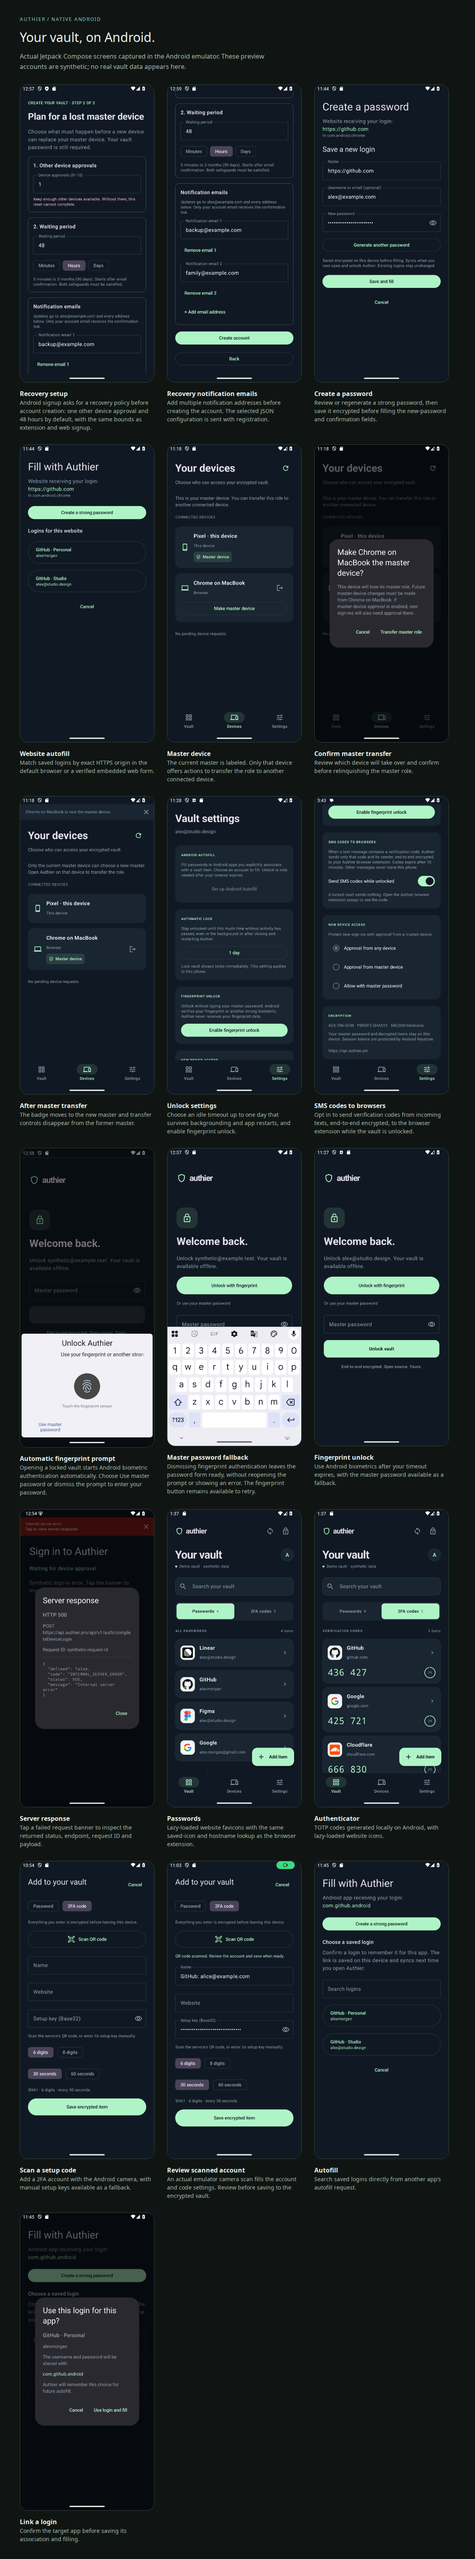
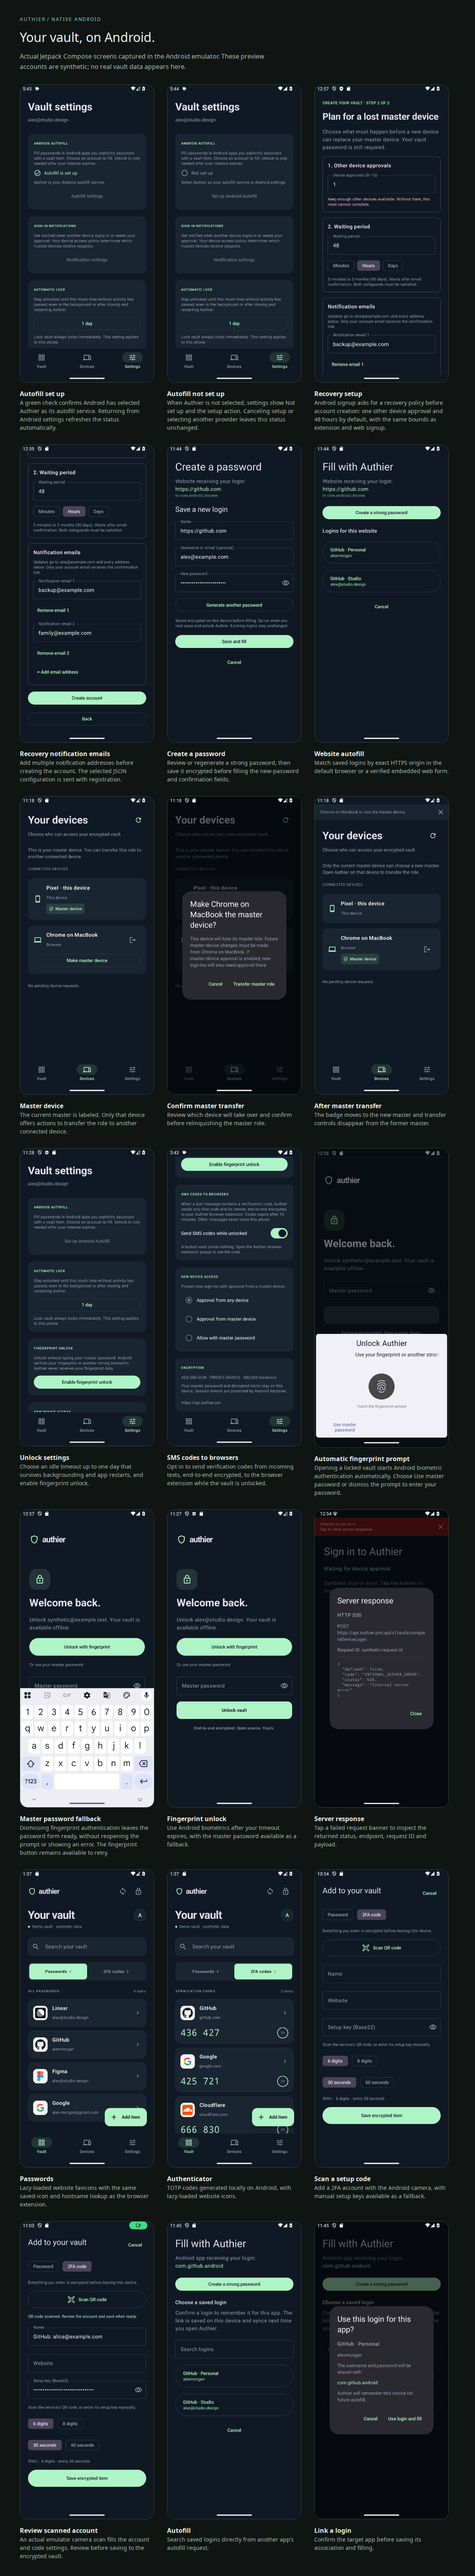
Add Android Autofill settings feature and related tests
- Implement AndroidAutofillSettings composable to manage autofill service setup.
- Create AndroidAutofillSettingsTest to validate provider selection behavior.
- Update AccountScreens to integrate the new autofill settings UI.
- Add screenshots for enabled and disabled autofill settings to documentation.
- Enhance AndroidVaultPreview with autofill settings scenarios.

diff --git a/android-app/app/src/androidTest/java/dev/authier/android/AndroidAutofillSettingsTest.kt b/android-app/app/src/androidTest/java/dev/authier/android/AndroidAutofillSettingsTest.kt
@@ -1,0 +1,66 @@
+package dev.authier.android
+
+import android.Manifest
+import android.content.ComponentName
+import android.provider.Settings
+import android.view.autofill.AutofillManager
+import androidx.activity.ComponentActivity
+import androidx.compose.ui.test.assertIsDisplayed
+import androidx.compose.ui.test.junit4.createAndroidComposeRule
+import androidx.compose.ui.test.onNodeWithText
+import androidx.lifecycle.Lifecycle
+import androidx.test.platform.app.InstrumentationRegistry
+import org.junit.After
+import org.junit.Before
+import org.junit.Rule
+import org.junit.Test
+
+class AndroidAutofillSettingsTest {
+    @get:Rule val compose = createAndroidComposeRule<ComponentActivity>()
+    private val instrumentation = InstrumentationRegistry.getInstrumentation()
+    private val context = instrumentation.targetContext
+    private var originalProvider: String? = null
+
+    @Before fun rememberProvider() {
+        instrumentation.uiAutomation.adoptShellPermissionIdentity(Manifest.permission.WRITE_SECURE_SETTINGS)
+        originalProvider = Settings.Secure.getString(context.contentResolver, "autofill_service")
+        Settings.Secure.putString(context.contentResolver, "autofill_service", null)
+    }
+
+    @After fun restoreProvider() {
+        Settings.Secure.putString(context.contentResolver, "autofill_service", originalProvider)
+        instrumentation.uiAutomation.dropShellPermissionIdentity()
+    }
+
+    private fun returnWithProvider(provider: String?, enabled: Boolean) {
+        compose.activityRule.scenario.moveToState(Lifecycle.State.CREATED)
+        Settings.Secure.putString(context.contentResolver, "autofill_service", provider)
+        compose.waitUntil(5_000) {
+            context.getSystemService(AutofillManager::class.java).hasEnabledAutofillServices() == enabled
+        }
+        compose.activityRule.scenario.moveToState(Lifecycle.State.RESUMED)
+    }
+
+    @Test fun refreshesTheActualProviderOnReturnFromAndroidSettings() {
+        compose.setContent { AuthierTheme { AndroidAutofillSettings() } }
+        compose.onNodeWithText("Not set up").assertIsDisplayed()
+        compose.onNodeWithText("Set up Android Autofill").assertIsDisplayed()
+
+        // Returning without selecting Authier must not claim setup succeeded.
+        returnWithProvider(null, enabled = false)
+        compose.onNodeWithText("Not set up").assertIsDisplayed()
+
+        val authier = ComponentName(context, NativeAutofillService::class.java).flattenToString()
+        returnWithProvider(authier, enabled = true)
+        compose.onNodeWithText("Autofill is set up").assertIsDisplayed()
+        compose.onNodeWithText("Authier is your Android autofill service.").assertIsDisplayed()
+        compose.onNodeWithText("Autofill settings").assertIsDisplayed()
+        compose.onNodeWithText("Set up Android Autofill").assertDoesNotExist()
+
+        // Another provider being enabled is not equivalent to Authier being selected.
+        returnWithProvider("com.google.android.gms/.autofill.service.AutofillService", enabled = false)
+        compose.onNodeWithText("Not set up").assertIsDisplayed()
+        compose.onNodeWithText("Set up Android Autofill").assertIsDisplayed()
+        compose.onNodeWithText("Autofill is set up").assertDoesNotExist()
+    }
+}

diff --git a/android-app/app/src/main/java/dev/authier/android/AndroidAutofillSettings.kt b/android-app/app/src/main/java/dev/authier/android/AndroidAutofillSettings.kt
@@ -1,0 +1,44 @@
+package dev.authier.android
+
+import android.content.Intent
+import android.net.Uri
+import android.provider.Settings
+import android.view.autofill.AutofillManager
+import androidx.compose.foundation.layout.*
+import androidx.compose.material.icons.Icons
+import androidx.compose.material.icons.outlined.CheckCircle
+import androidx.compose.material.icons.outlined.RadioButtonUnchecked
+import androidx.compose.material3.*
+import androidx.compose.runtime.*
+import androidx.compose.ui.Alignment
+import androidx.compose.ui.Modifier
+import androidx.compose.ui.platform.LocalContext
+import androidx.compose.ui.unit.dp
+import androidx.lifecycle.compose.LifecycleResumeEffect
+
+@Composable
+internal fun AndroidAutofillSettings(demo: Boolean = false) {
+    val context = LocalContext.current
+    val manager = remember(context) { context.getSystemService(AutofillManager::class.java) }
+    fun isSetUp() = manager?.hasEnabledAutofillServices() == true
+    var enabled by remember(manager) { mutableStateOf(isSetUp()) }
+    LifecycleResumeEffect(manager) {
+        // Recheck Android's selected provider after setup, cancellation, or switching services.
+        enabled = isSetUp()
+        onPauseOrDispose { }
+    }
+    SettingSection("ANDROID AUTOFILL", "Fill passwords in Android apps you explicitly associate with a vault item. Choose an account to fill. Unlock is only needed after your timeout expires.") {
+        Row(verticalAlignment = Alignment.CenterVertically, horizontalArrangement = Arrangement.spacedBy(10.dp)) {
+            Icon(if (enabled) Icons.Outlined.CheckCircle else Icons.Outlined.RadioButtonUnchecked,
+                contentDescription = null, tint = if (enabled) Mint else Muted, modifier = Modifier.size(22.dp))
+            Text(if (enabled) "Autofill is set up" else "Not set up", color = if (enabled) Mint else Muted,
+                style = MaterialTheme.typography.bodyMedium)
+        }
+        Text(if (enabled) "Authier is your Android autofill service." else "Select Authier as your autofill service in Android settings.",
+            color = Muted, style = MaterialTheme.typography.bodySmall)
+        OutlinedButton({ context.startActivity(Intent(Settings.ACTION_REQUEST_SET_AUTOFILL_SERVICE, Uri.parse("package:${context.packageName}"))) },
+            enabled = !demo, modifier = Modifier.fillMaxWidth()) {
+            Text(if (enabled) "Autofill settings" else "Set up Android Autofill")
+        }
+    }
+}

diff --git a/android-app/app/src/main/java/dev/authier/android/AccountScreens.kt b/android-app/app/src/main/java/dev/authier/android/AccountScreens.kt
@@ -1,7 +1,6 @@
 package dev.authier.android
 
 import android.content.Intent
-import android.net.Uri
 import android.provider.Settings
 import androidx.compose.foundation.layout.*
 import androidx.compose.foundation.lazy.LazyColumn
@@ -24,11 +23,7 @@ fun SettingsScreen(state: VaultUiState, model: VaultViewModel) {
     var discard by remember { mutableStateOf<PendingWrite?>(null) }
     LazyColumn(Modifier.fillMaxSize(), contentPadding = PaddingValues(24.dp), verticalArrangement = Arrangement.spacedBy(20.dp)) {
         item { ScreenHeading("Vault settings", state.email) }
-        item {
-            SettingSection("ANDROID AUTOFILL", "Fill passwords in Android apps you explicitly associate with a vault item. Choose an account to fill. Unlock is only needed after your timeout expires.") {
-                OutlinedButton({ context.startActivity(Intent(Settings.ACTION_REQUEST_SET_AUTOFILL_SERVICE, Uri.parse("package:${context.packageName}"))) }, enabled = !state.demo, modifier = Modifier.fillMaxWidth()) { Text("Set up Android Autofill") }
-            }
-        }
+        item { AndroidAutofillSettings(demo = state.demo) }
         item {
             SettingSection("SIGN-IN NOTIFICATIONS", "Get notified when another device signs in or needs your approval. Your device access policy determines which trusted devices receive requests.") {
                 OutlinedButton({ context.startActivity(Intent(Settings.ACTION_APP_NOTIFICATION_SETTINGS).putExtra(Settings.EXTRA_APP_PACKAGE, context.packageName)) }, enabled = !state.demo, modifier = Modifier.fillMaxWidth()) { Text("Notification settings") }

diff --git a/web-extension/ui-preview/scenarios/AndroidVaultPreview.tsx b/web-extension/ui-preview/scenarios/AndroidVaultPreview.tsx
@@ -17,10 +17,24 @@ import associationScreenshot from '../../../docs/screenshots/android-autofill-as
 import masterDevicesScreenshot from '../../../docs/screenshots/android-devices-master.png'
 import transferMasterScreenshot from '../../../docs/screenshots/android-devices-transfer.png'
 import memberDevicesScreenshot from '../../../docs/screenshots/android-devices-member.png'
+import autofillEnabledScreenshot from '../../../docs/screenshots/android-autofill-settings-enabled.png'
+import autofillDisabledScreenshot from '../../../docs/screenshots/android-autofill-settings-disabled.png'
 
 // Compose runs in Android, so this scenario displays captures from the actual
 // debug app instead of maintaining a second implementation of its UI in React.
 const screens = [
+  {
+    title: 'Autofill set up',
+    image: autofillEnabledScreenshot,
+    description:
+      'A green check confirms Android has selected Authier as its autofill service. Returning from Android settings refreshes the status automatically.'
+  },
+  {
+    title: 'Autofill not set up',
+    image: autofillDisabledScreenshot,
+    description:
+      'When Authier is not selected, settings show Not set up and the setup action. Canceling setup or selecting another provider leaves this status unchanged.'
+  },
   {
     title: 'Recovery setup',
     image: recoverySetupScreenshot,

diff --git a/web-extension/tests/ui-preview/androidVault.spec.ts b/web-extension/tests/ui-preview/androidVault.spec.ts
@@ -10,6 +10,8 @@ test('renders captured native Android vault, authenticator and autofill screens'
   ).toBeVisible()
   await expect(page.locator('body')).not.toHaveClass(/extension-popup/)
   for (const name of [
+    'Autofill set up',
+    'Autofill not set up',
     'Recovery setup',
     'Recovery notification emails',
     'Create a password',

diff --git a/web-extension/ui-preview/README.md b/web-extension/ui-preview/README.md
@@ -163,6 +163,15 @@ second web implementation. Refresh `docs/screenshots/android-vault.png` and
 `android-autofill-association.png` after selecting a login in that preview, then run its
 Playwright test to render `docs/screenshots/android-ui-preview.png`.
 
+The gallery includes `android-autofill-settings-enabled.png` and
+`android-autofill-settings-disabled.png`, captured from the debug demo intent with
+`--ei tab 2`. These use Android's actual selected autofill provider, even in demo
+mode: select the debug Authier service in a disposable emulator for the enabled
+capture, then select another provider for the disabled capture. Restore the
+emulator's previous provider afterward. `AndroidAutofillSettingsTest` checks
+returning without setup, selecting Authier, and switching to another provider
+while the settings screen is paused.
+
 The Android gallery also includes `android-api-error.png`, captured from the debug-only
 `ApiErrorPreviewActivity` after tapping its error banner. It uses the production
 response dialog with a synthetic HTTP 500 payload and makes no network requests.
